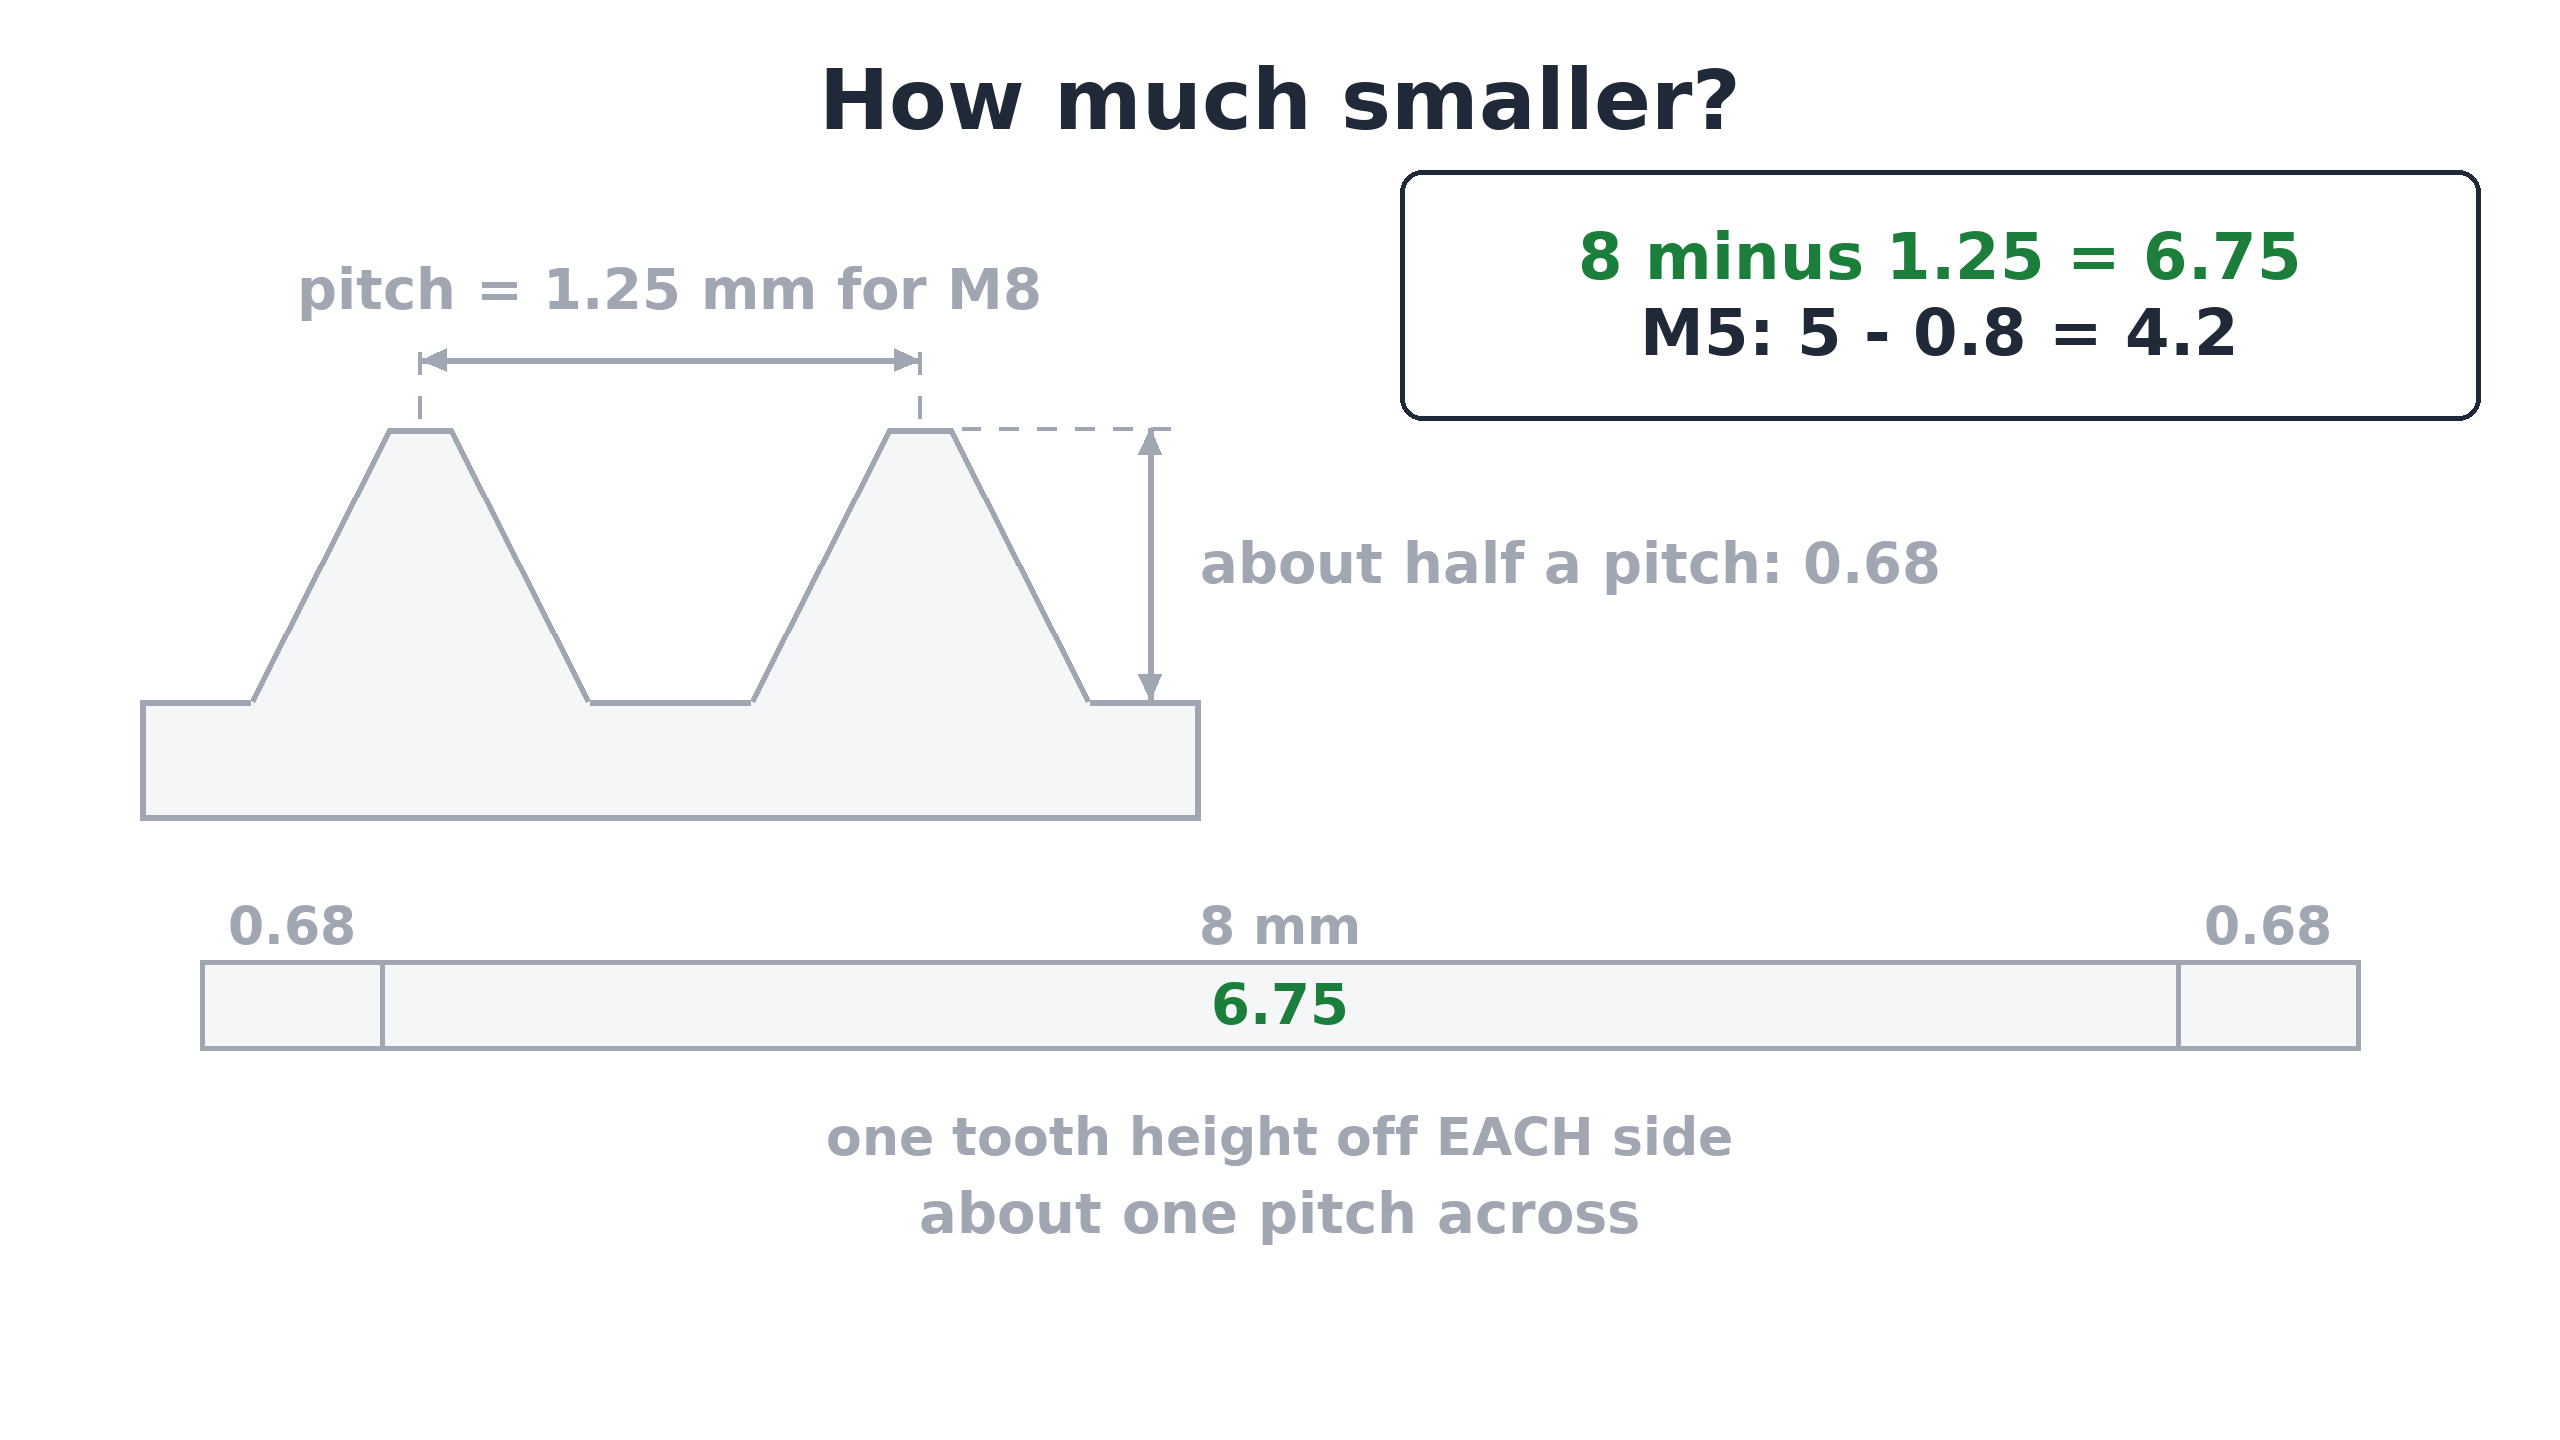
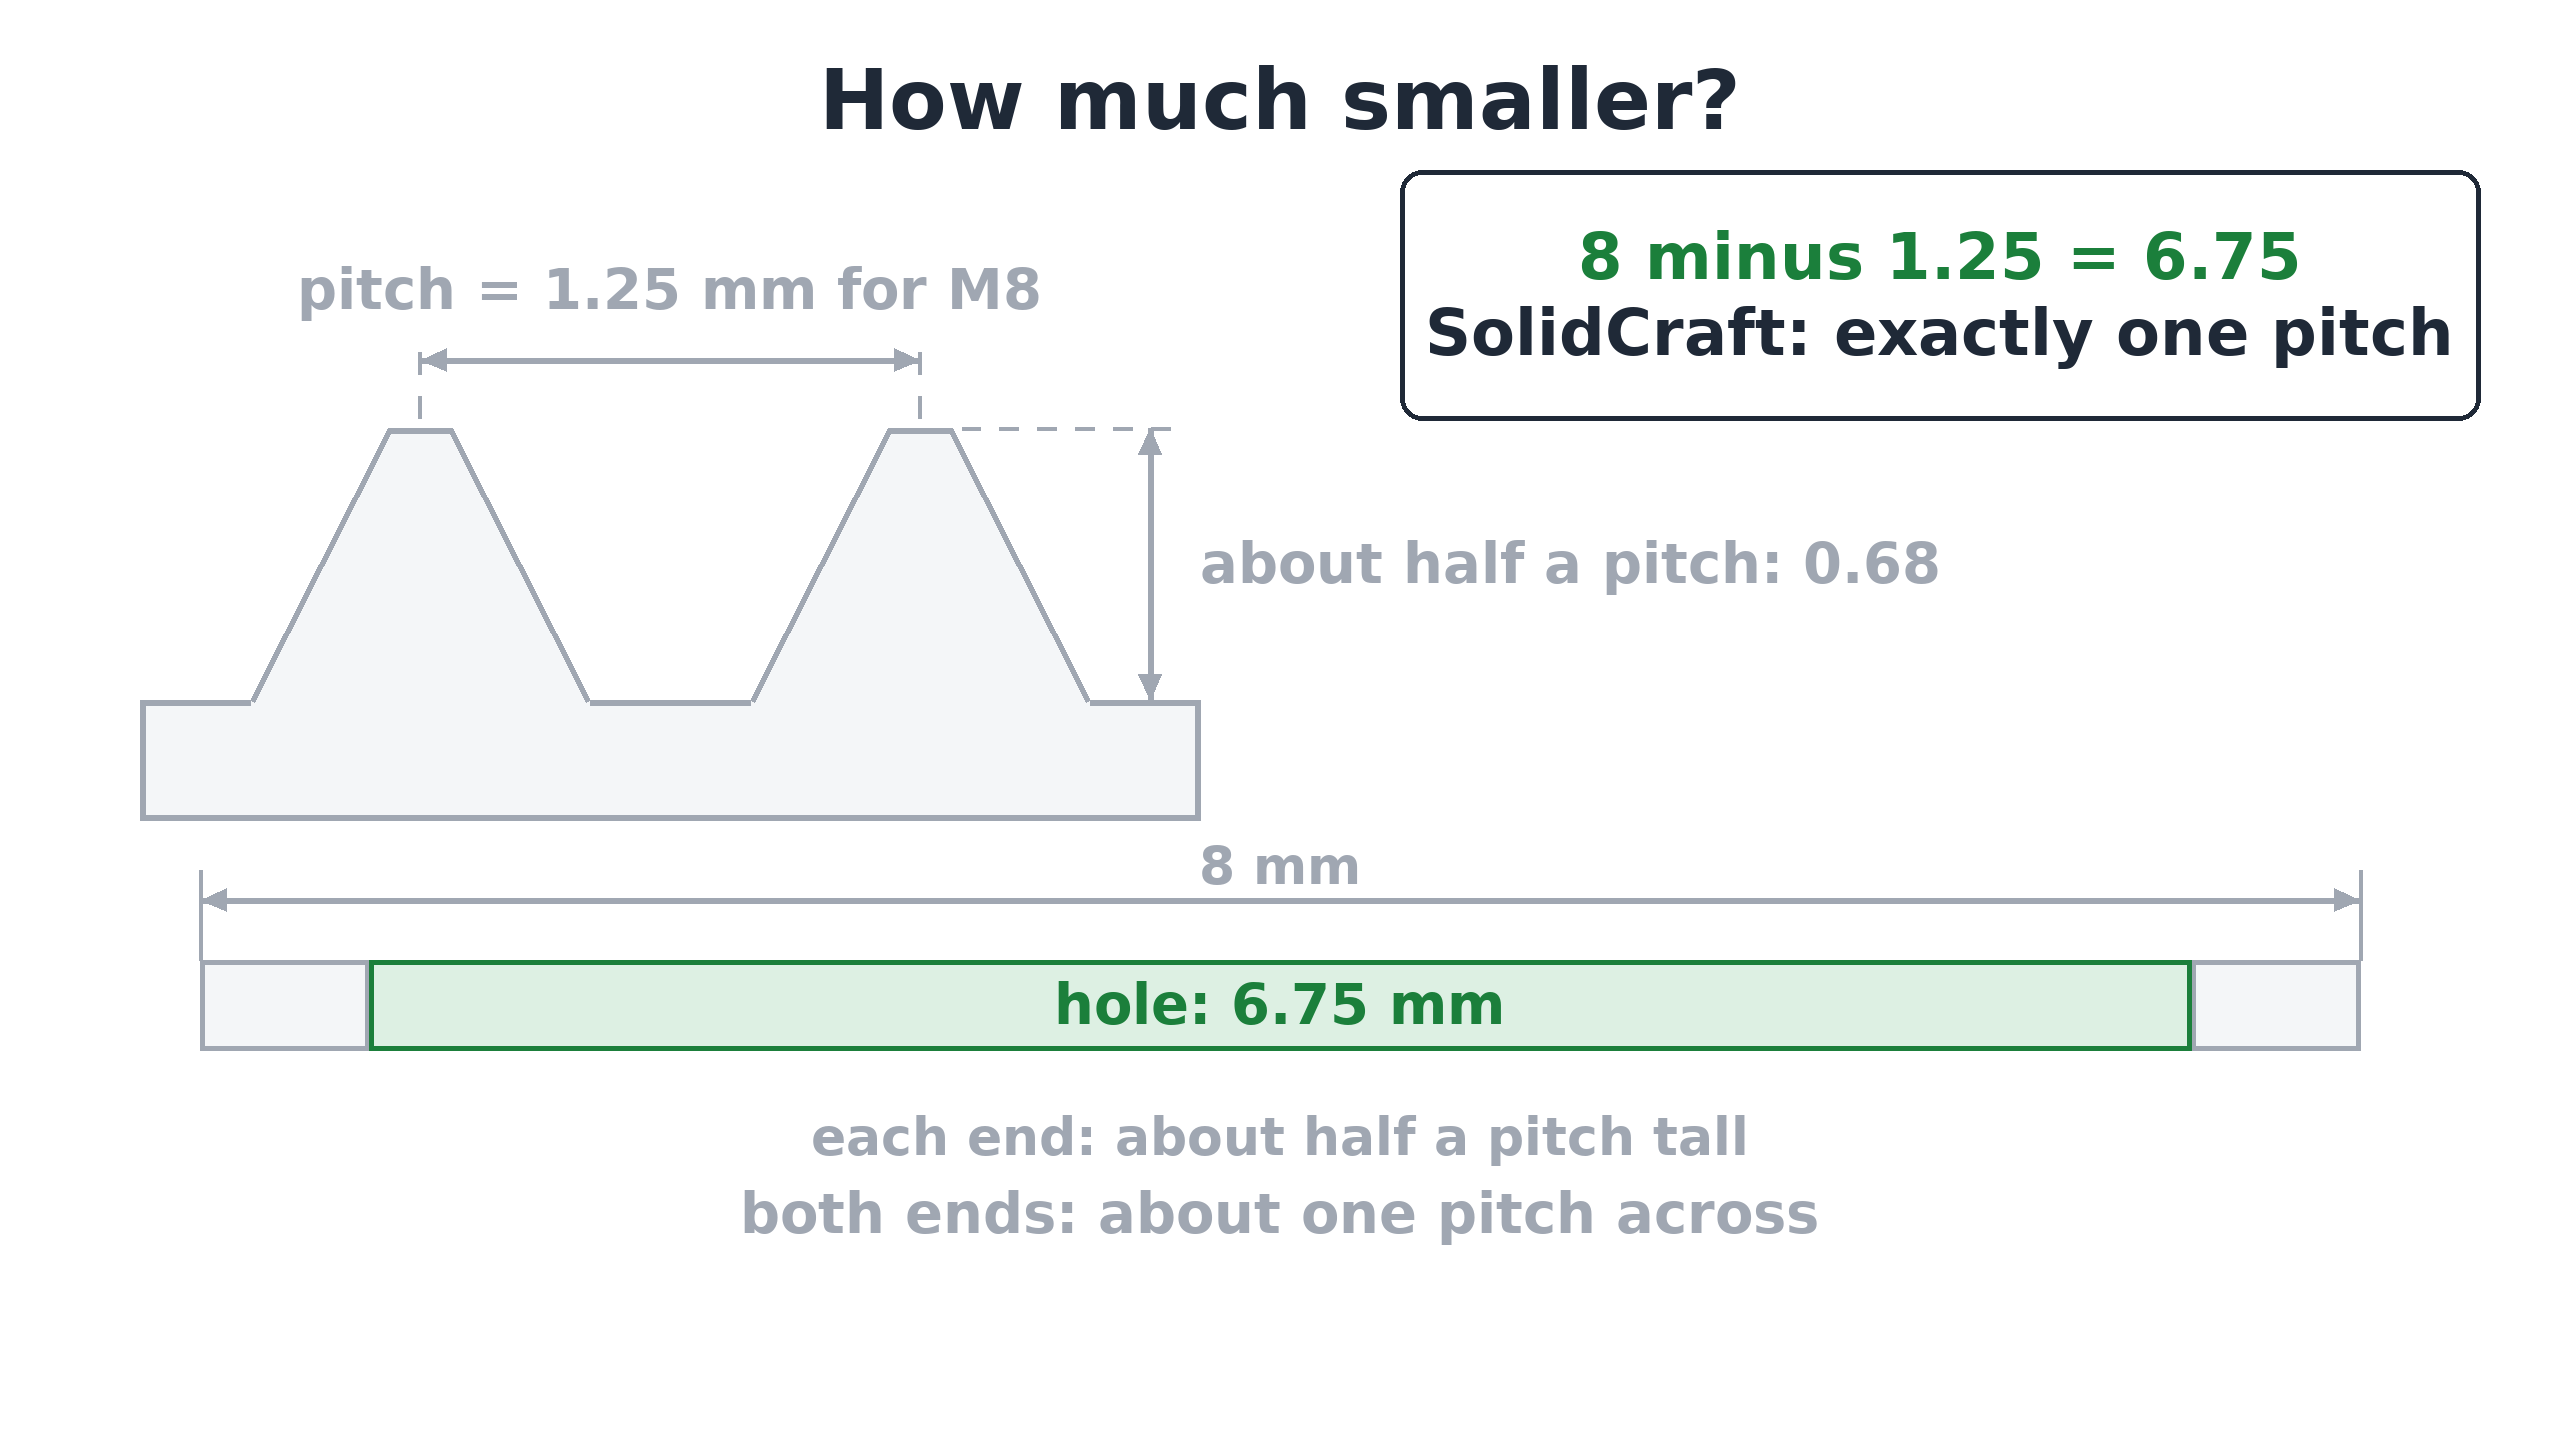
fx9 cut 2 cards: card-pitch bar shows 8 mm across the WHOLE bar, the hole 6.75 in the middle, ends 'about half a pitch tall' with no tooth numbers (no 0.68+6.75+0.68 sum), M5 dropped; new card-short-wall-1..2 (1080x960, the Short's cause: wall at 8 = nothing to cut, then wall at 6.75 with grooves cu

Changed region(s): [[0.0625, 0.5938, 0.9375, 0.875], [0.5625, 0.1875, 0.9688, 0.25]]

diff --git a/video/draw_fx9.py b/video/draw_fx9.py
@@ -3,7 +3,8 @@ draw_fx7alt.py pattern: light, 2560 x 1440, one picture that builds; each step a
 Text 44 px+, 44 columns at most per line.
   full frame (RGB):  card-lid-1..3 (F3), card-pitch-1..3 (F5), card-sofar-1..2 (F8, the same lid picture: the peg twice)
   overlay (RGBA, transparent left of x 1300): card-cut-1..2 (F4), card-question-1..2 (F10; no answer on screen)
-Facts (SCRIPT-fx9.md): M8 pitch 1.25, tooth height 0.68 (about half a pitch), hole 8 - 1.25 = 6.75; M5 5 - 0.8 = 4.2;
+Facts (SCRIPT-fx9.md): M8 pitch 1.25, tooth height 0.68 (about half a pitch), hole 8 - 1.25 = 6.75; M5 5 - 0.8 = 4.2
+(cut 2: M5 no longer drawn; the bar shows 8 mm across the whole bar, the hole 6.75 in the middle, no tooth numbers);
 the filmed window: 6.3 refused (too narrow), 6.5 built, 7.6 built, 7.7 refused (cuts too little). The M10 question is
 asked, never answered.
 Run in the QA image:  docker run --rm -v "<lab>:/lab" -w /lab cad3way-draw:1 python3 video/draw_fx9.py [sheet OUTDIR]"""
@@ -245,6 +246,7 @@ TEETH = (420, 420 + PITCH_PX)                    # tooth centres (x)
 HALF_BASE, HALF_CREST = round(0.425 * PPM), round(0.08 * PPM)
 BAR = (200, 2360, 960, 1050)                     # the hole across: x0, x1 (8 mm), y0, y1
 BPPM = (BAR[1] - BAR[0]) / M8[0]
+PITCH_GEOM = {}                                  # x spans drawn on the bar (tested)
 
 
 def card_pitch(step):
@@ -264,21 +266,28 @@ def card_pitch(step):
     dashed(d, (TEETH[1] + HALF_CREST + 10, crest), (hx + 20, crest), p['ink'], 4)
     dimline(d, (hx, crest), (hx, BASE), p['ink'])
     text(d, (hx + 50, (crest + BASE) / 2), 'about half a pitch: 0.68', 56, p['ink'], anchor='lm')
-    if step >= 2:                                # 2: the hole loses one tooth height on each side
+    if step >= 2:                                # 2: the hole loses about half a pitch on EACH side (cut 2: no sum)
         p = pal(2, step, RED)
         x0, x1, y0, y1 = BAR
-        t = round(TOOTH * BPPM)
+        t = round(M8[1] / 2 * BPPM)              # each end drawn half a pitch wide: the middle is 6.75 to scale
         d.rectangle((x0, y0, x1, y1), fill=tint(LIGHT, p), outline=p['ink'], width=5)
         for a, b in ((x0, x0 + t), (x1 - t, x1)):
             d.rectangle((a, y0, b, y1), fill=tint(REDFILL, p), outline=p['acc'], width=5)
-            text(d, ((a + b) / 2, y0 - 15), '0.68', 52, p['acc'], anchor='mb')
-        text(d, ((x0 + x1) / 2, y0 - 15), '8 mm', 52, p['ink'], anchor='mb')
-        text(d, (W / 2, 1115), 'one tooth height off EACH side', 52, p['ink'], anchor='mt')
-        text(d, (W / 2, 1190), 'about one pitch across', 56, p['acc'], anchor='mt')
-    if step >= 3:                                # 3: the sum
+        for x in (x0, x1):                       # "8 mm" across the WHOLE bar, outside the hole
+            d.line((x, y0 - 90, x, y0), fill=p['ink'], width=4)
+        dimline(d, (x0, y0 - 60), (x1, y0 - 60), p['ink'])
+        text(d, ((x0 + x1) / 2, y0 - 75), '8 mm', 52, p['ink'], anchor='mb')
+        PITCH_GEOM['8 mm'] = (x0, x1)
+        PITCH_GEOM['hole'] = (x0 + t, x1 - t)
+        text(d, (W / 2, 1115), 'each end: about half a pitch tall', 52, p['ink'], anchor='mt')
+        text(d, (W / 2, 1190), 'both ends: about one pitch across', 56, p['acc'], anchor='mt')
+    if step >= 3:                                # 3: the hole, SolidCraft's rule
         p = pal(3, step, GREEN)
-        text(d, ((BAR[0] + BAR[1]) / 2, (BAR[2] + BAR[3]) / 2), '6.75', 56, GREEN, anchor='mm')
-        callout(d, (1400, 170, 2480, 420), ['8 minus 1.25 = 6.75', 'M5: 5 - 0.8 = 4.2'], p, 64, accents=(0,))
+        a, b = PITCH_GEOM['hole']
+        d.rectangle((a, BAR[2], b, BAR[3]), fill=GREENFILL, outline=GREEN, width=5)
+        text(d, ((a + b) / 2, (BAR[2] + BAR[3]) / 2), 'hole: 6.75 mm', 56, GREEN, anchor='mm')
+        callout(d, (1400, 170, 2480, 420), ['8 minus 1.25 = 6.75', 'SolidCraft: exactly one pitch'], p, 64,
+                accents=(0,))
     save(im, f'card-pitch-{step}.png')
 
 
@@ -344,6 +353,55 @@ def card_question(step):
     save(im, 'card-question-2.png')
 
 
+# --- Short card (cut 2, MUST-FIX 4): the hole wall in cross-section, 1080 x 960 (the Short's view) ---------------------
+SW, SHH = 1080, 960
+SPPM = 80                                        # px per mm: 8 mm = 640 px
+SCX = SW // 2
+SHORT_GEOM = {}
+HATCH = (190, 198, 210)
+
+
+def wall_panel(d, y0, hole, p, title, foot, foot_col, grooves):
+    """One cross-section panel: the nut wall on both sides of the hole, the 8 mm line dashed red."""
+    l8, r8 = SCX - 4 * SPPM, SCX + 4 * SPPM
+    li, ri = SCX - round(hole / 2 * SPPM), SCX + round(hole / 2 * SPPM)
+    top, bot = y0 + 90, y0 + 330
+    text(d, (SCX, y0 + 40), title, 50, p['ink'], anchor='mm', box=(0, 0, SW, SHH))
+    for a, b in ((90, li), (ri, 990)):
+        d.rectangle((a, top, b, bot), fill=tint(HATCH, p), outline=p['ink'], width=4)
+    if grooves:                                  # V grooves cut from the hole wall out to the 8 line
+        pitch = round(M8[1] * SPPM)
+        yc = top + pitch // 2
+        while yc + pitch // 2 <= bot:
+            for edge, tip in ((li, l8), (ri, r8)):
+                d.polygon([(edge, yc - pitch * 0.45), (tip, yc), (edge, yc + pitch * 0.45)], fill=WHITE,
+                          outline=p['ink'])
+            yc += pitch
+    for x in (l8, r8):
+        dashed(d, (x, top - 20), (x, bot + 20), RED if p['on'] else DONE, 5)
+    my = (top + bot) // 2
+    dimline(d, (li + 6, my), (ri - 6, my), p['acc'], 5)
+    text(d, (SCX, my - 12), f'hole {hole:g} mm', 46, p['acc'], anchor='mb', box=(0, 0, SW, SHH))
+    text(d, (SCX, bot + 50), foot, 48, foot_col if p['on'] else DONE, anchor='mm', box=(0, 0, SW, SHH))
+    return (li, ri), (l8, r8)
+
+
+def card_short_wall(step):
+    CUR.clear()
+    im = Image.new('RGB', (SW, SHH), WHITE)
+    d = ImageDraw.Draw(im)
+    p = pal(1, step, RED)
+    SHORT_GEOM['wall8'], SHORT_GEOM['line8'] = wall_panel(d, 20, M8[0], p, 'hole 8: wall already at 8',
+                                                          'nothing left to cut', RED, False)
+    text(d, (SCX, 928), "red dashes: the bolt's outside, 8", 44, RED, anchor='mm', box=(0, 0, SW, SHH))
+    if step >= 2:
+        p = pal(2, step, GREEN)
+        d.line((60, 478, SW - 60, 478), fill=DONE, width=3)
+        SHORT_GEOM['wall675'], _ = wall_panel(d, 495, HOLE_M8, p, 'hole 6.75: grooves cut out to 8',
+                                              'room to cut: real teeth', GREEN, True)
+    save(im, f'card-short-wall-{step}.png')
+
+
 def sheet(outdir):
     names = sorted(n for n in os.listdir(OUT) if n.endswith('.png'))
     tw, th, cols = 640, 360, 3
@@ -383,6 +441,8 @@ def main():
         card_sofar(s)
     for s in (1, 2):
         card_question(s)
+    for s in (1, 2):
+        card_short_wall(s)
     check_alpha()
     print('PROBLEMS:', PROBLEMS or 'none')
 

diff --git a/tests/test_draw_fx9.py b/tests/test_draw_fx9.py
@@ -121,7 +121,7 @@ def test_card_labels_from_the_script(drawn):
         assert s in {t for t, _ in d.LOG[n]}, (n, s)
     p1 = {t for t, _ in d.LOG['card-pitch-1.png']}
     assert 'about half a pitch: 0.68' in p1
-    assert 'M5: 5 - 0.8 = 4.2' in {t for t, _ in d.LOG['card-pitch-3.png']}
+    assert not any('M5' in t for t, _ in d.LOG['card-pitch-3.png'])     # cut 2: M5 dropped (never spoken)
     assert 'M10 wants 8.5. Builds?' in {t for t, _ in d.LOG['card-question-2.png']}
 
 
@@ -143,3 +143,39 @@ def test_question_shows_no_answer(drawn):
         assert set(texts) <= allowed, set(texts) - allowed
         assert texts.count('refused') == 2 and texts.count('built') == 2      # only the four filmed rows
         assert all(f in texts for f in d.FIFTH)
+
+
+def test_pitch_bar_cut2_8mm_spans_the_whole_bar_and_no_sum(drawn):
+    """Watch-through c1 MUST-FIX 2: "8 mm" spans the whole bar, the hole (6.75) is the middle only, and the bar
+    carries no tooth numbers that would add up (0.68 + 6.75 + 0.68 = 8.11)."""
+    g = d.PITCH_GEOM
+    assert g['8 mm'] == (d.BAR[0], d.BAR[1])
+    a, b = g['hole']
+    assert d.BAR[0] < a < b < d.BAR[1]
+    assert abs((b - a) / (d.BAR[1] - d.BAR[0]) - d.HOLE_M8 / d.M8[0]) < 0.01
+    for i in (2, 3):
+        texts = [t for t, _ in d.LOG[f'card-pitch-{i}.png']]
+        assert texts.count('0.68') == 0, i
+        assert texts.count('about half a pitch: 0.68') == 1, i           # step 1's tooth label only
+        assert '8 mm' in texts and 'each end: about half a pitch tall' in texts, i
+    assert 'hole: 6.75 mm' in {t for t, _ in d.LOG['card-pitch-3.png']}
+
+
+def test_short_wall_card_cut2(drawn):
+    """Short c2 (watch-through MUST-FIX 4): a cross-section card in the 1080 x 960 Short view that builds in two steps,
+    the cause before the fix: 1 the wall already at 8 (nothing to cut), 2 the wall at 6.75 with grooves cut out to 8.
+    Step 2 keeps step 1 on screen; text 44 px+ and inside the view."""
+    for i in (1, 2):
+        im = Image.open(os.path.join(drawn, f'card-short-wall-{i}.png'))
+        assert im.size == (1080, 960)
+    t1 = [t for t, _ in d.LOG['card-short-wall-1.png']]
+    t2 = [t for t, _ in d.LOG['card-short-wall-2.png']]
+    assert set(t1) <= set(t2)
+    assert 'hole 8: wall already at 8' in t1 and 'nothing left to cut' in t1
+    assert 'hole 6.75: grooves cut out to 8' in t2
+    assert not any('6.75' in t for t in t1)                  # the fix number only in step 2
+    assert all(px >= 44 for _, px in d.LOG['card-short-wall-2.png'])
+    g = d.SHORT_GEOM
+    assert g['wall8'] == g['line8']                          # step 1: the wall sits ON the 8 line
+    assert g['wall675'] > g['line8']                         # step 2: the wall inside the 8 line
+    assert abs((g['wall675'][1] - g['wall675'][0]) / (g['line8'][1] - g['line8'][0]) - 6.75 / 8) < 0.01
